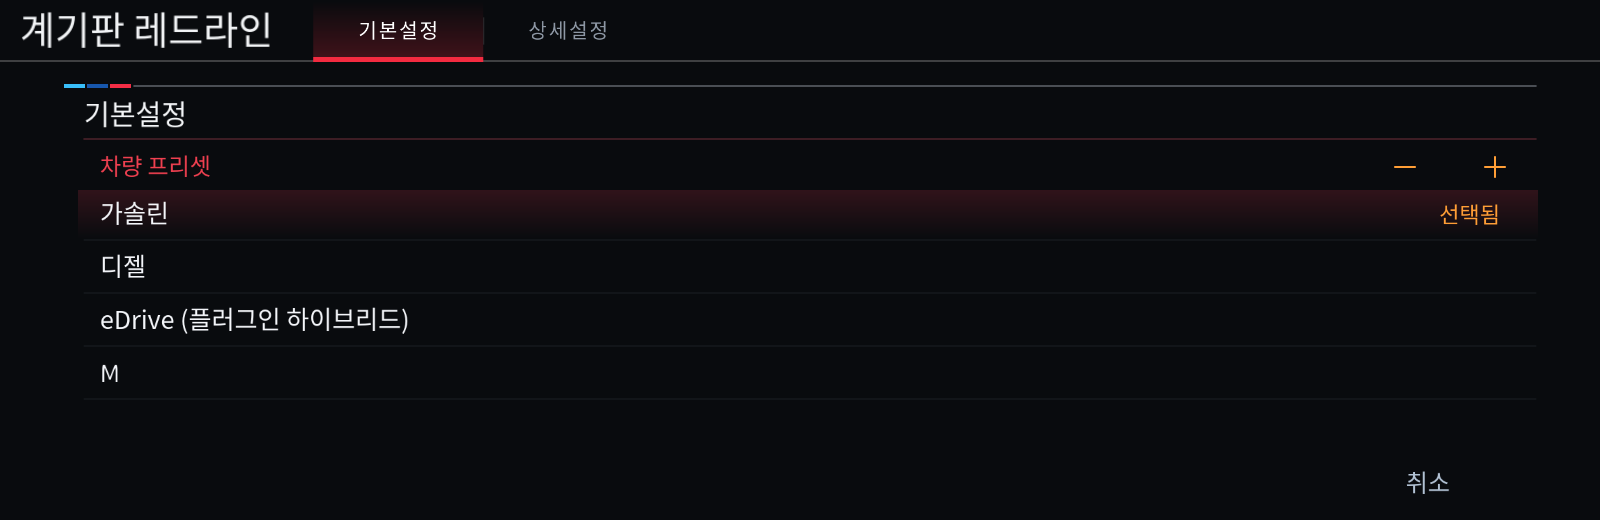
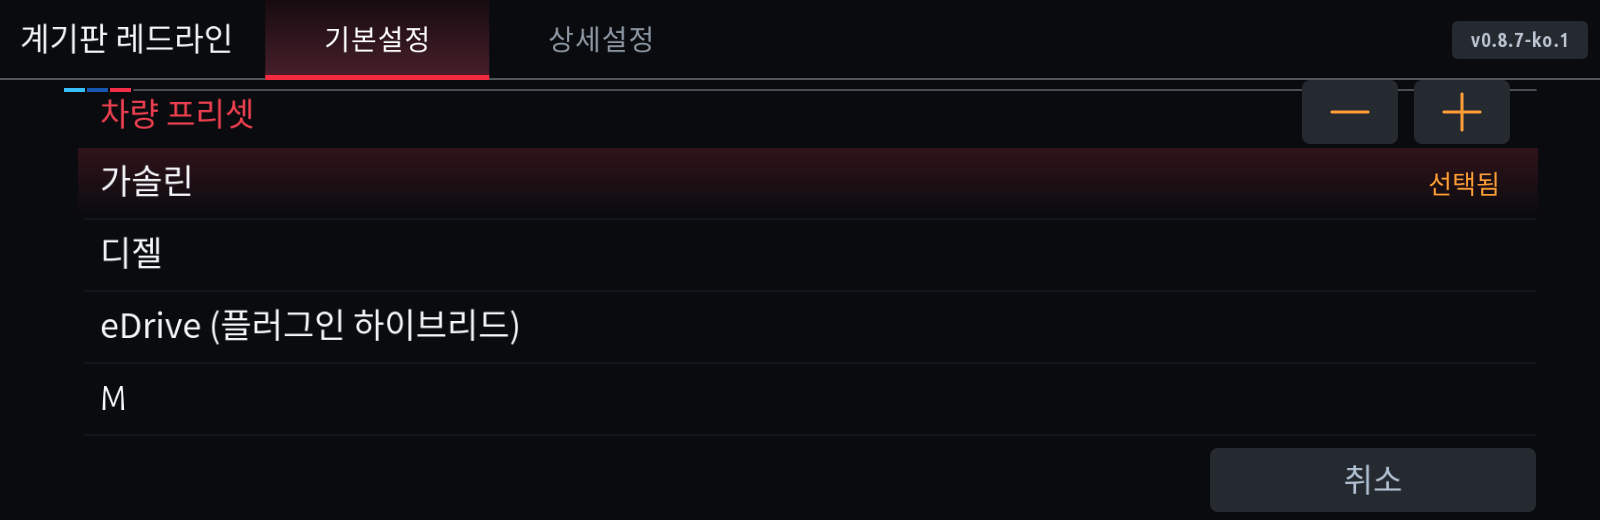
Release Cluster Redline 0.8.7 with larger settings controls
Increase setting text, row hit areas, list controls and the two header tabs. Use four equal-width 80px bottom controls on the owned full-screen display; keep native HMI fallback controls. Scope chrome styling to this app process.

Verify Korean and English with the actual bundled compositor and touch routing, check both desktop language artifacts and existing Store shell compatibility, and refresh previews. Preserve the 0.8.5 cluster rendering and takeover behavior.

diff --git a/apps/cluster_redline/settings-ui.js b/apps/cluster_redline/settings-ui.js
@@ -1,6 +1,7 @@
 'use strict';
 const { t } = require('./kit/i18n');
 const G = require('./kit/gauges');
+const { header } = require('./settings-chrome');
 const { settings: effective, PROFILES } = require('./policy');
 const W = 1600, H = 520;
 const TABS = ['Basic settings', 'Advanced settings'];
@@ -62,67 +63,76 @@ class SettingsPage {
         cv.clear(theme.bg);
         // Use the same kit header as Live Data. Full-screen renderers place the
         // title/tabs in the real HMI strip; software draws them together here.
-        const offset = cv.chrome ? 0 : 66;
+        const full = !!cv.chrome;
+        const fit = (value, size, width) => { while (size > 20 && cv.textWidth(t(value), size) > width) size--; return size; };
         const badges = this.version ? [{ text: 'v' + this.version, color: '#8d97a4' }] : [];
         if (cv.chrome) G.frame(cv, theme, TABS, this.tab, badges);
         else {
-            G.header(cv, theme, 0, 0, W, 62, 'Cluster Redline', TABS, this.tab, badges, true, false);
+            header(cv, theme, 0, 0, W, 80, 'Cluster Redline', TABS, this.tab, badges, true, false);
             (cv.tabRects || []).forEach((r) => targets.push(Object.assign({}, r, { act: () => this.selectTab(r.i) })));
         }
-        ['#39bffa', '#1757ad', '#f32d45'].forEach((color, i) => cv.fillRect(64 + i * 23, offset + 18, 21, 4, color));
-        cv.line(134, offset + 20, 1536, offset + 20, 1, '#8b919a');
-        cv.text(TABS[this.tab], 84, offset + 59, 28, '#f3f5f7', { font: 'bold' });
-        cv.line(84, offset + 73, 1536, offset + 73, 1, '#71303a');
-        if (this.open) this.drawChoices(cv, cfg, targets, offset);
+        const marker = full ? 45 : 88;
+        ['#39bffa', '#1757ad', '#f32d45'].forEach((color, i) => cv.fillRect(64 + i * 23, marker, 21, 4, color));
+        cv.line(134, marker + 2, 1536, marker + 2, 1, '#8b919a');
+        if (full) {
+            cv.text(TABS[this.tab], 84, 83, 34, '#f3f5f7', { font: 'bold' });
+            cv.line(84, 95, 1536, 95, 1, '#71303a');
+        }
+        if (this.open) this.drawChoices(cv, cfg, targets);
         else {
-            let y = offset + 86;
+            let y = 100;
             this.keys().forEach((key, i) => {
-                const item = this.settings.schema.find((s) => s.key === key), h = key === 'appEnabled' ? 108 : 54;
+                const item = this.settings.schema.find((s) => s.key === key);
+                const h = key === 'appEnabled' ? 116 : this.tab === 1 ? 88 : 66;
                 const on = i === this.focus;
                 if (on) {
                     cv.gradientRect(78, y, 1460, h - 1, [[0, '#291217'], [1, theme.bg]]);
-                    cv.fillRect(78, y + 7, 3, 35, '#ef3046');
+                    cv.fillRect(78, y + 7, 4, 48, '#ef3046');
                 }
-                cv.text(item.label, 100, y + 34, 25, '#f1f4fa');
-                cv.text(this.value(item, cfg), 1482, y + 34, 25, '#c1cddd', { align: 'right' });
-                if (item.type !== 'bool') cv.polyline([[1518, y + 20], [1526, y + 28], [1518, y + 36]], 2, '#909cac');
+                const baseline = y + (key === 'appEnabled' ? 40 : h / 2 + 12);
+                cv.text(item.label, 100, baseline, 34, '#f1f4fa');
+                cv.text(this.value(item, cfg), 1482, baseline, 34, '#c1cddd', { align: 'right' });
+                if (item.type !== 'bool') cv.polyline([[1514, y + h / 2 - 12], [1527, y + h / 2], [1514, y + h / 2 + 12]], 3, '#909cac');
                 if (key === 'appEnabled') {
-                    cv.text(RENDERER_NOTICE, 100, y + 59, 20, '#ff9e36');
-                    cv.text(cfg.displayTarget === 'map' ? MAP_WARNING : WARNING, 100, y + 85, 20, '#ff9e36');
+                    const warning = cfg.displayTarget === 'map' ? MAP_WARNING : WARNING;
+                    cv.text(RENDERER_NOTICE, 100, y + 73, fit(RENDERER_NOTICE, 24, 1400), '#ff9e36');
+                    cv.text(warning, 100, y + 102, fit(warning, 24, 1400), '#ff9e36');
                 }
                 cv.line(84, y + h - 1, 1536, y + h - 1, 0.6, '#292d34');
                 targets.push({ x: 78, y, w: 1460, h: h - 1, act: () => this.activate(i) });
                 y += h;
             });
-            if (this.tab === 0) cv.text('Presets set gauge scales; eDrive shows engine output only, not combined output.', 84, 500, 19, '#8b98aa');
+            if (this.tab === 0) cv.text('Presets set gauge scales; eDrive shows engine output only, not combined output.', 84, 510, 22, '#8b98aa');
             else {
-                cv.text('Status', 84, 421, 21, '#7f8b9d');
-                cv.text(status || 'Waiting for background app', 84, 454, 23, '#bdc9d8');
-                cv.text('Fixed 20 fps request limit; actual output depends on the car.', 84, 500, 19, '#8b98aa');
+                cv.text('Status', 84, 408, 26, '#7f8b9d');
+                cv.text(status || 'Waiting for background app', 84, 449, 30, '#bdc9d8');
+                cv.text('Fixed 20 fps request limit; actual output depends on the car.', 84, 510, 22, '#8b98aa');
             }
         }
         cv.targets = targets.map((target, i) => Object.assign({ key: this.tab + ':' + (this.open || 'rows') + ':' + i, run: target.act }, target));
         return cv;
     }
-    drawChoices(cv, cfg, targets, offset) {
-        const item = this.item(), list = options(item, cfg), start = Math.max(0, Math.min(list.length - 5, this.choice - 2));
-        cv.text(item.label, 100, offset + 109, 23, '#ef4050');
+    drawChoices(cv, cfg, targets) {
+        const item = this.item(), list = options(item, cfg), start = Math.max(0, Math.min(list.length - 4, this.choice - 1));
+        cv.text(item.label, 100, 126, 32, '#ef4050');
         [-1, 1].forEach((delta, i) => {
-            const x = 1370 + i * 90;
-            cv.line(x + 25, offset + 101, x + 45, offset + 101, 2, '#ff9e36');
-            if (delta > 0) cv.line(x + 35, offset + 91, x + 35, offset + 111, 2, '#ff9e36');
-            targets.push({ x, y: offset + 79, w: 70, h: 43, act: () => this.move(delta) });
+            const x = 1302 + i * 112;
+            cv.roundRect(x, 80, 96, 64, 8, '#252a31');
+            cv.line(x + 30, 112, x + 66, 112, 3, '#ff9e36');
+            if (delta > 0) cv.line(x + 48, 94, x + 48, 130, 3, '#ff9e36');
+            targets.push({ x, y: 80, w: 96, h: 64, act: () => this.move(delta) });
         });
-        list.slice(start, start + 5).forEach((o, row) => {
-            const i = start + row, y = offset + 124 + row * 53, selected = o[0] === this.settings.get(item.key);
-            if (i === this.choice) cv.gradientRect(78, y, 1460, 49, [[0, '#30131a'], [1, '#090b0e']]);
-            cv.line(84, y + 50, 1536, y + 50, 0.6, '#292d34');
-            cv.text(o[1], 100, y + 33, 25, '#f4f6fa');
-            if (selected) cv.text('Selected', 1500, y + 33, 22, '#ff9e36', { align: 'right' });
-            targets.push({ x: 78, y, w: 1460, h: 50, act: () => this.choose(i) });
+        list.slice(start, start + 4).forEach((o, row) => {
+            const i = start + row, y = 148 + row * 72, selected = o[0] === this.settings.get(item.key);
+            if (i === this.choice) cv.gradientRect(78, y, 1460, 70, [[0, '#30131a'], [1, '#090b0e']]);
+            cv.line(84, y + 71, 1536, y + 71, 0.6, '#292d34');
+            cv.text(o[1], 100, y + 46, 34, '#f4f6fa');
+            if (selected) cv.text('Selected', 1500, y + 46, 26, '#ff9e36', { align: 'right' });
+            targets.push({ x: 78, y, w: 1460, h: 70, act: () => this.choose(i) });
         });
-        cv.text('Cancel', 1450, 492, 24, '#b2c2d4', { align: 'right' });
-        targets.push({ x: 1300, y: 460, w: 250, h: 48, act: () => { this.open = null; this.changed(); } });
+        cv.roundRect(1210, 448, 326, 64, 8, '#252a31');
+        cv.text('Cancel', 1373, 492, 32, '#b2c2d4', { align: 'center' });
+        targets.push({ x: 1210, y: 448, w: 326, h: 64, act: () => { this.open = null; this.changed(); } });
     }
 }
 module.exports = { SettingsPage, GROUPS, TABS, WARNING, MAP_WARNING, RENDERER_NOTICE, options, W, H };

diff --git a/tests/cluster_redline/controls-size.test.js b/tests/cluster_redline/controls-size.test.js
@@ -1,0 +1,84 @@
+'use strict';
+// Test the actual bundled compositor and input routing with only transport stubbed.
+const assert = require('assert'), fs = require('fs'), path = require('path'), vm = require('vm');
+const { EventEmitter } = require('events');
+const stage = path.resolve(process.argv[2]), js = path.join(stage, 'source/javascript');
+const spec = JSON.parse(fs.readFileSync(path.join(js, 'kit/app-spec.json')));
+const { SettingsPage } = require(path.join(js, 'settings-ui'));
+const { configure } = require(path.join(js, 'settings-chrome'));
+const { Recorder, play } = require(path.join(js, 'kit/record'));
+const { Canvas } = require(path.join(js, 'kit/canvas'));
+const { t } = require(path.join(js, 'kit/i18n'));
+const values = {}, components = {}, calls = [];
+spec.settings.forEach((s) => { values[s.key] = s.default; });
+class Renderer extends EventEmitter {
+    constructor() { super(); this.ready = this.native = this.touch = true; this.screen = { w: 1920, h: 720 }; this.info = { controller: true }; }
+    static available() { return true; }
+    connect() { this.emit('ready'); }
+    place() {} show(on) { this.visible = on; } grab() {} claim() {} frame() {}
+}
+const ui = { rhmi: { getByName(name) { return components[name] || (components[name] = new EventEmitter()); } },
+    onVisible() {}, onFocus() {}, isVisible(name) { return name === 'MAIN'; }, hasFocus() { return true; }, visible() {} };
+const settings = { schema: spec.settings, get: (k) => values[k], set(k, v) { values[k] = v; }, onChange() {} };
+const log = { info() {}, warn() {}, error(e) { throw e; } };
+const box = { module: { exports: {} }, process: { env: {} }, Date, Buffer,
+    setTimeout() {}, clearTimeout() {}, setInterval() { return { unref() {} }; },
+    require(name) { return name === './renderd' ? { RenderClient: Renderer } : require(path.join(js, 'kit', name)); } };
+vm.runInNewContext(fs.readFileSync(path.join(js, 'kit/display.js'), 'utf8'), box);
+const display = new box.module.exports.Display(ui, log, spec, settings, () => require(path.join(js, 'kit/themes')).theme());
+configure({ display, hideButton: (id) => display.hideButton(id) });
+let page, bodyWords;
+const oldText = Recorder.prototype.text;
+Recorder.prototype.text = function (value, x, y, size) { calls.push({ value: t(value), size }); return oldText.apply(this, arguments); };
+function render() {
+    const r = page.draw(display.canvas(1600, 520)); bodyWords = new Uint32Array(r.words());
+    return display.present('MAIN_GFX', r, () => {});
+}
+page = new SettingsPage(settings, render, spec.version);
+display.onTab = (i) => page.selectTab(i);
+function tapLogical(r) { display._touch(1, r.x + r.w / 2, r.y + r.h / 2); display._touch(3, r.x + r.w / 2, r.y + r.h / 2); }
+function save(name) {
+    if (!process.argv[3]) return;
+    const out = path.resolve(process.argv[3]); fs.mkdirSync(out, { recursive: true });
+    const pageImage = new Canvas(1600, 520), chrome = new Canvas(1920, 720), result = new Canvas(1920, 720);
+    play(bodyWords, pageImage);
+    // Native chrome ends with clipped transparent masks for HMI icons. The
+    // software player ignores clips, so omit those clears in this host image;
+    // no stock status icons are included in the preview.
+    chrome.clear = () => chrome;
+    play(display.chromeRec.words(), chrome);
+    const p = display.place; result.clear('#090b0e');
+    result.drawImage(pageImage.d, 1600, 520, p.ox, p.oy, 1600 * p.scale, 520 * p.scale); result.blit(chrome, 0, 0);
+    fs.writeFileSync(path.join(out, name + '.png'), result.png());
+}
+try {
+    render(); assert(display.own()); assert.strictEqual(display.barH(), 80);
+    assert.deepStrictEqual(Array.from(display.buttons(), (b) => b.id), ['BTN_PREVIOUS', 'BTN_NEXT', 'BTN_VALUE_DOWN', 'BTN_VALUE_UP']);
+    const buttons = display.buttons();
+    assert.strictEqual(buttons[0].x, 84); assert.strictEqual(buttons[3].x + buttons[3].w, 1920);
+    buttons.forEach((b) => assert(b.w >= 450));
+    for (const text of ['Basic settings', 'Advanced settings']) assert(calls.some((c) => c.value === t(text).toUpperCase() && c.size === 28));
+    assert(calls.some((c) => c.value === t('Vehicle preset') && c.size === 34));
+    display.pageTargets.forEach((r) => assert(r.h >= 65 && r.y + r.h <= 520));
+    save('settings-basic-full');
+    tapLogical(display.tabs[1]); assert.strictEqual(page.tab, 1);
+    display.pageTargets.forEach((r) => assert(r.h >= 87));
+    save('settings-advanced-full');
+    tapLogical(display.pageTargets[0]); assert.strictEqual(page.open, 'shiftRpm');
+    assert.strictEqual(display.pageTargets[0].w, 96); assert.strictEqual(display.pageTargets[0].h, 64);
+    assert(display.pageTargets.slice(2, -1).every((r) => r.h === 70));
+    assert.strictEqual(display.pageTargets[display.pageTargets.length - 1].h, 64);
+    save('settings-rpm-full');
+    const choice = page.choice; tapLogical(display.pageTargets[1]); assert.notStrictEqual(page.choice, choice);
+    tapLogical(display.pageTargets[display.pageTargets.length - 1]); assert.strictEqual(page.open, null);
+    tapLogical(display.tabs[0]);
+    components.BTN_NEXT.on('action', () => page.move(1));
+    components.BTN_VALUE_UP.on('action', () => page.change(1));
+    function tapBar(id) {
+        const b = display.buttons().find((q) => q.id === id), p = display.place;
+        tapLogical({ x: (b.x - p.ox) / p.scale, y: (720 - display.barH() - p.oy) / p.scale, w: b.w / p.scale, h: display.barH() / p.scale });
+    }
+    tapBar('BTN_NEXT'); assert.strictEqual(page.focus, 1);
+    tapBar('BTN_VALUE_UP'); assert.strictEqual(values.engineProfile, 'diesel');
+    console.log('PASS: real compositor has 28px tabs, 34px rows, four 80px bottom buttons, bounded large targets and working tab/list/footer touches');
+} finally { Recorder.prototype.text = oldText; }

diff --git a/apps/cluster_redline/settings-chrome.js b/apps/cluster_redline/settings-chrome.js
@@ -1,0 +1,68 @@
+'use strict';
+const { t } = require('./kit/i18n');
+const G = require('./kit/gauges');
+// App-local chrome: larger targets without changing the shared renderer service.
+function header(cv, theme, x, y, w, h, title, tabs, selected, badges, flat, compact) {
+    const textSize = 28, names = (tabs || []).map((s) => t(s).toUpperCase());
+    const opt = { font: 'bold', align: 'center', spacing: 1 };
+    const titleText = t(title), titleWidth = cv.textWidth(titleText, 32);
+    const widths = names.map((s) => Math.max(224, cv.textWidth(s, textSize, opt) + 56));
+    const badgeWidth = (badges || []).length ? 156 : 0;
+    const showTitle = 40 + titleWidth + 32 + widths.reduce((a, b) => a + b, 0) + badgeWidth <= w;
+    const contentWidth = 40 + (showTitle ? titleWidth + 32 : 0) + widths.reduce((a, b) => a + b, 0) + badgeWidth;
+    const end = compact ? x + Math.min(w, contentWidth) : x + w;
+    cv.fillRect(x, y, end - x, h, theme.bg);
+    cv.fillRect(x, y + h - 2, end - x, 2, '#51555c');
+    let left = x + 20;
+    if (showTitle) { cv.text(titleText, left, y + h / 2 + 11, 32, theme.text); left += titleWidth + 32; }
+    cv.tabRects = [];
+    names.forEach((name, i) => {
+        const width = widths[i], on = i === selected;
+        cv.tabRects.push({ i, x: left, y, w: width, h });
+        if (on) {
+            cv.gradientRect(left, y, width, h, [[0, '#170b10'], [1, '#49202b']]);
+            cv.fillRect(left, y + h - 5, width, 5, theme.sel || theme.accent);
+        }
+        cv.text(name, left + width / 2, y + h / 2 + 10, textSize, on ? '#ffffff' : theme.dim, opt);
+        left += width;
+    });
+    if (badgeWidth) {
+        const bx = compact ? left + 12 : end - 148;
+        cv.roundRect(bx, y + (h - 38) / 2, 136, 38, 6, '#252a31');
+        cv.text(badges[0].text, bx + 68, y + h / 2 + 7, 20, '#bdc6d2', opt);
+    }
+    return end;
+}
+function configure(ctx) {
+    const display = ctx.display;
+    if (!display || display.redlineLargeControls) return;
+    display.redlineLargeControls = true;
+    // Tabs already switch pages. Leave four roomy bottom controls for values.
+    if (ctx.hideButton) { ctx.hideButton('BTN_BASIC'); ctx.hideButton('BTN_ADVANCED'); }
+    const oldTheme = display.theme, oldHeight = display.barH, oldButtons = display.buttons;
+    display.barH = function () { return this.ownable() ? 80 : oldHeight.call(this); };
+    display.buttons = function () {
+        const buttons = oldButtons.call(this);
+        if (!this.ownable() || !buttons.length) return buttons;
+        const width = (1920 - 84) / buttons.length;
+        return buttons.map((b, i) => Object.assign({}, b, { x: 84 + i * width, w: width }));
+    };
+    display.theme = () => Object.assign({}, oldTheme.call(display), { redlineLargeControls: true, redlineBarHeight: display.barH() });
+    if (!G.redlineLargeControls) {
+        const oldHeader = G.header, oldMenu = G.menuBar;
+        G.header = function () { return arguments[1].redlineLargeControls ? header.apply(null, arguments) : oldHeader.apply(null, arguments); };
+        G.menuBar = function (cv, theme, x, y, w, h, buttons, focus, variant, flash) {
+            if (!theme.redlineLargeControls || variant !== 'slim') return oldMenu.apply(null, arguments);
+            const height = theme.redlineBarHeight || h, size = height >= 80 ? 28 : 20;
+            cv.fillRect(x, y, w, height, '#11151b');
+            buttons.forEach((b, i) => {
+                if (i === focus || i === flash) cv.gradientRect(b.x, y, b.w, height, [[0, '#30151d'], [1, '#6a2337']]);
+                cv.line(b.x, y + 12, b.x, y + height - 12, 1, '#565d66');
+                cv.text(b.label, b.x + b.w / 2, y + height / 2 + size * 0.36, size, '#f3f5f7', { font: 'bold', align: 'center' });
+            });
+        };
+        G.redlineLargeControls = true;
+    }
+    if (display.gpu && display.gpu.ready) display._place();
+}
+module.exports = { header, configure };

diff --git a/apps/cluster_redline/main.js b/apps/cluster_redline/main.js
@@ -4,6 +4,7 @@ const path = require('path');
 const mgu = require('./kit/mgu');
 const { t } = require('./kit/i18n');
 const { SettingsPage, W, H } = require('./settings-ui');
+const { configure } = require('./settings-chrome');
 const worker = require('./worker');
 const REASONS = {
     disabled: 'Automatic display off', renderer_unavailable: 'Waiting for cluster renderer',
@@ -15,6 +16,7 @@ const REASONS = {
     all_modes: 'All drive modes · display requested', stopped: 'Background app stopped',
 };
 mgu.run({ async start(ctx) {
+    configure(ctx);
     // Preserve a legacy OFF choice when moving from autoSport to appEnabled.
     try {
         const old = JSON.parse(fs.readFileSync(path.join(ctx.dataDir, 'settings.json'), 'utf8'));

diff --git a/tools/install-overlay.py b/tools/install-overlay.py
@@ -37,7 +37,7 @@ def main():
     files += [Path('tests') / p for p in ('metadata.test.js', 'standard-installer.test.py',
                                        'standard-kit.test.py', 'overlay.test.py', 'collect-cluster-redline.test.py', 'collect-redline-install.test.py', 'cluster-redline-manifest.test.py')]
     files += [Path(p) for p in ('docs/JAM-INTEGRATION.ko.md', 'docs/VALIDATION.ko.md', 'docs/CLUSTER-REDLINE-0.4.0.ko.md', 'docs/CLUSTER-REDLINE-0.5.0.ko.md', 'docs/CLUSTER-REDLINE-0.6.0.ko.md', 'docs/CLUSTER-REDLINE-0.7.0.ko.md', 'localization/ko-additions.tsv',
-              'docs/CLUSTER-REDLINE-0.8.0.ko.md', 'docs/CLUSTER-REDLINE-0.8.2.ko.md', 'docs/CLUSTER-REDLINE-0.8.3.ko.md', 'docs/CLUSTER-REDLINE-0.8.4.ko.md', 'docs/CLUSTER-REDLINE-0.8.5.ko.md', 'docs/REDLINE-INSTALL-FAILED.ko.md', 'docs/COLLECT-CLUSTER-REDLINE.ko.md', 'docs/CLUSTER-OVERLAY-RESEARCH.ko.md', 'docs/AUTO-RENDERER.ko.md', 'LICENSES/MPL-2.0.txt', 'NOTICE.cluster-redline.md')]
+              'docs/CLUSTER-REDLINE-0.8.0.ko.md', 'docs/CLUSTER-REDLINE-0.8.2.ko.md', 'docs/CLUSTER-REDLINE-0.8.3.ko.md', 'docs/CLUSTER-REDLINE-0.8.4.ko.md', 'docs/CLUSTER-REDLINE-0.8.5.ko.md', 'docs/CLUSTER-REDLINE-0.8.7.ko.md', 'docs/REDLINE-INSTALL-FAILED.ko.md', 'docs/COLLECT-CLUSTER-REDLINE.ko.md', 'docs/CLUSTER-OVERLAY-RESEARCH.ko.md', 'docs/AUTO-RENDERER.ko.md', 'LICENSES/MPL-2.0.txt', 'NOTICE.cluster-redline.md')]
     conflicts = [str(p) for p in files if (target / p).exists() and
                  ((target / p).is_dir() or (target / p).read_bytes() != (HERE / p).read_bytes())]
     if conflicts and not args.force:

diff --git a/docs/CLUSTER-REDLINE-0.8.7.ko.md b/docs/CLUSTER-REDLINE-0.8.7.ko.md
@@ -1,0 +1,50 @@
+# 계기판 레드라인 0.8.7: 큰 글자와 터치 영역
+
+0.8.5를 기준으로 설정 화면의 가독성과 조작 영역을 키웠습니다.
+
+| 항목 | 이전 | 변경 |
+|---|---:|---:|
+| 설정 항목·선택값 글자 | 25 | 34 |
+| 전체 화면 상단 탭 글자 | 18 | 28 |
+| 일반 설정 행 높이 | 54 | 66 |
+| 상세설정 행 높이 | 54 | 88 |
+| 선택 목록의 터치 높이 | 50 | 70 |
+| 선택 목록 −/+ 버튼 | 70×43 | 96×64 |
+| 취소 버튼 | 250×48 | 326×64 |
+| 전체 화면 하단 버튼 높이 | 48 | 80 |
+
+수치는 앱의 논리 픽셀 기준이며 실차에서는 화면 배치에 따라 확대됩니다.
+긴 주황색 안내 문구는 가로폭에 맞게 글자 크기를 조절합니다.
+선택 목록은 한 화면에 네 항목을 보여주며 −/+ 또는 컨트롤러로 나머지 값을 고릅니다.
+
+상단의 기본설정·상세설정 탭을 크게 만들고, 전체 화면 하단에는
+**이전 항목 / 다음 항목 / 값 − / 값 +** 네 버튼을 같은 폭으로 배치합니다.
+상단과 겹치던 하단 기본설정·상세설정 버튼은 전체 화면에서 숨깁니다.
+GPU가 화면 조작을 맡지 않는 대체 표시에서는 기존 HMI 버튼을 유지합니다.
+
+변경은 이 앱의 화면 처리에만 적용하며 공유 렌더러 서비스를 바꾸지 않습니다.
+계기판 게이지와 지도 선점, 주행 모드 판단, 변속 알림, 단위 환산,
+저장 설정 및 20fps 요청 상한은 0.8.5 동작을 유지합니다.
+
+## 설치와 확인
+
+MGU Store에서 Jam 저장소의 **main → Check now → 0.8.7 업데이트**를 진행합니다.
+화면 상단의 버전은 스토어판 **v0.8.7**, 수동 한국어 빌드는 **v0.8.7-ko.1**입니다.
+PC에서는 새 소스를 오버레이한 뒤 평소의 build.py / make_kit.py 명령으로 다시 빌드합니다.
+
+스토어 빌드는 기존 SDK 없는 UI 템플릿에 현재 앱의 JavaScript를 넣습니다.
+이번에는 RHMI 설정 스키마가 바뀌지 않아 기존 템플릿을 재사용하며, 실제 앱 버전은 빌드 때 갱신됩니다.
+
+## 검증과 미리보기
+
+실제 번들된 Display·SettingsPage를 사용해 한국어·영어의 글자 크기,
+하단 네 버튼의 폭·높이·클릭, 탭 전환, 선택 목록 이동 및 취소를 검사했습니다.
+GPU 전송 장치만 테스트 대역으로 바꾸며 실제 차량 신호를 보내지 않습니다.
+실차의 최종 글자 크기와 터치감은 설치 후 확인해야 합니다.
+
+```sh
+node tests/cluster_redline/controls-size.test.js /path/to/dist/cluster_redline /path/to/previews
+```
+
+전체 화면 이미지는 실제 앱의 본문과 헤더·버튼을 호스트에서 합성한 미리보기입니다.
+차량의 상태 아이콘은 포함하지 않습니다.

diff --git a/README.md b/README.md
@@ -4,7 +4,7 @@ English | [한국어](README.ko.md)
 
 Two ordinary apps for the existing [idrive7-apps](https://github.com/cauliflowermossgrape/idrive7-apps) build and deployment workflow.
 
-Cluster Redline 0.8.5 provides Basic/Advanced settings tabs, four vehicle presets,
+Cluster Redline 0.8.7 provides Basic/Advanced settings tabs, four vehicle presets,
 Sport/all-mode display and actual power/torque unit conversion. An orange instruction
 allows Map view/Off for the map target, with deferred first-image visibility. Renderer installation guidance is included and refresh is fixed at a requested 20fps.
 Rendering above every stock map/Assist view remains
@@ -71,3 +71,5 @@ See [validation](docs/VALIDATION.ko.md), [client attribution](NOTICE.cluster-red
 [0.8.4: 실행 버전 확인 / Verify the running version](docs/CLUSTER-REDLINE-0.8.4.ko.md)
 
 [0.8.5 install fix: notifier-only gearbox programme](docs/CLUSTER-REDLINE-0.8.5.ko.md)
+
+[0.8.7: Larger settings text and touch controls](docs/CLUSTER-REDLINE-0.8.7.ko.md)

diff --git a/apps/cluster_redline/README.md b/apps/cluster_redline/README.md
@@ -2,7 +2,7 @@
 
 한국어: [README.ko.md](README.ko.md)
 
-A background MGU app for cluster RPM and shift lights. Version **0.8.5** opens directly to **Basic settings / Advanced settings** and shows its running version in the header.
+A background MGU app for cluster RPM and shift lights. Version **0.8.7** opens directly to **Basic settings / Advanced settings** and shows its running version in the header.
 
 For stock-map takeover, choose **Advanced settings > Display layer > Map area (legacy)**
 and set **Instrument cluster > Central display area > Map view or Off**.
@@ -56,3 +56,5 @@ The refresh-rate selector is removed. Old saved rates cannot override the fixed 
 [0.8.4: 실행 버전 확인 / Verify the running version](../../docs/CLUSTER-REDLINE-0.8.4.ko.md)
 
 [0.8.5 install fix: notifier-only gearbox programme](../../docs/CLUSTER-REDLINE-0.8.5.ko.md)
+
+[0.8.7: Larger settings text and touch controls](../../docs/CLUSTER-REDLINE-0.8.7.ko.md)

diff --git a/apps/cluster_redline/README.ko.md b/apps/cluster_redline/README.ko.md
@@ -3,7 +3,7 @@
 English: [README.md](README.md)
 
 MGU에서 백그라운드로 동작하는 계기판 RPM·변속 알림 앱입니다.
-**0.8.5**는 앱을 열면 기본설정 / 상세설정 탭을 바로 표시하고, 상단에 실행 버전을 표시합니다.
+**0.8.7**는 앱을 열면 기본설정 / 상세설정 탭을 바로 표시하고, 상단에 실행 버전을 표시합니다.
 
 ![기본설정](../../screenshots/cluster_redline/settings-basic.png)
 ![상세설정](../../screenshots/cluster_redline/settings-advanced.png)
@@ -59,3 +59,5 @@ python kit/tools/build.py --language ko cluster_redline
 [0.8.4: 실행 버전 확인 / Verify the running version](../../docs/CLUSTER-REDLINE-0.8.4.ko.md)
 
 [0.8.5 설치 실패 수정: 변속 프로그램 신호의 getter 요청 제거](../../docs/CLUSTER-REDLINE-0.8.5.ko.md)
+
+[0.8.7: 큰 설정 글자·터치 버튼 / Larger settings controls](../../docs/CLUSTER-REDLINE-0.8.7.ko.md)
